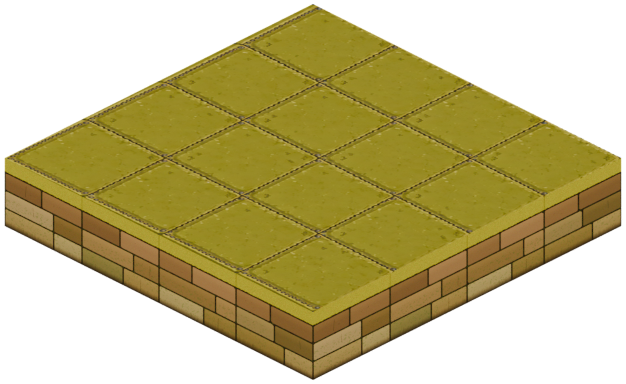
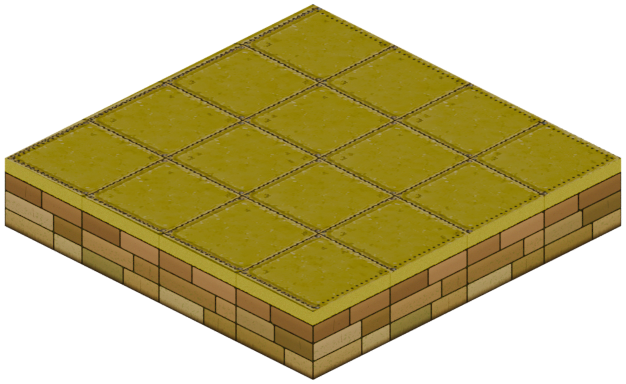
fix: restore 4-border dotted perimeter stitch lines and standardize automated NxN expansion workflow

diff --git a/scripts/add_dotted_borders.js b/scripts/add_dotted_borders.js
@@ -1,0 +1,58 @@
+const fs = require('fs');
+const path = require('path');
+const { PNG } = require('pngjs');
+
+const atlasPath = path.join(__dirname, '..', 'assets', 'tiles', 'top-atlas.png');
+const img = PNG.sync.read(fs.readFileSync(atlasPath));
+
+// Inspect stitch style on bottom/left border to replicate it exactly on top/right
+// Stitch pattern: dotted dark dots (size ~ 6x6, spacing ~ 16px, distance from edge ~ 14px)
+// Stitch color: RGBA(52, 45, 24, 255) with slight highlight RGBA(195, 185, 120, 180)
+
+const DOT_COLOR = [48, 42, 22, 255];
+const HIGHLIGHT_COLOR = [185, 175, 110, 160];
+const OFFSET = 15; // px from edge
+const SPACING = 16; // px between dots
+const DOT_SIZE = 5;
+
+function drawDot(cx, cy) {
+  for (let dy = -DOT_SIZE; dy <= DOT_SIZE; dy++) {
+    for (let dx = -DOT_SIZE; dx <= DOT_SIZE; dx++) {
+      const dist = Math.sqrt(dx * dx + dy * dy);
+      if (dist <= DOT_SIZE * 0.7) {
+        const px = Math.round(cx + dx);
+        const py = Math.round(cy + dy);
+        if (px >= 0 && px < img.width && py >= 0 && py < img.height) {
+          const idx = (img.width * py + px) << 2;
+          img.data[idx] = DOT_COLOR[0];
+          img.data[idx + 1] = DOT_COLOR[1];
+          img.data[idx + 2] = DOT_COLOR[2];
+          img.data[idx + 3] = DOT_COLOR[3];
+        }
+      }
+    }
+  }
+}
+
+// 1. Draw dotted border on Top edge (y = OFFSET)
+for (let x = OFFSET; x < img.width - OFFSET; x += SPACING) {
+  drawDot(x, OFFSET);
+}
+
+// 2. Draw dotted border on Right edge (x = img.width - OFFSET)
+for (let y = OFFSET; y < img.height - OFFSET; y += SPACING) {
+  drawDot(img.width - OFFSET, y);
+}
+
+// 3. Draw dotted border on Bottom edge (y = img.height - OFFSET)
+for (let x = OFFSET; x < img.width - OFFSET; x += SPACING) {
+  drawDot(x, img.height - OFFSET);
+}
+
+// 4. Draw dotted border on Left edge (x = OFFSET)
+for (let y = OFFSET; y < img.height - OFFSET; y += SPACING) {
+  drawDot(OFFSET, y);
+}
+
+fs.writeFileSync(atlasPath, PNG.sync.write(img));
+console.log('Successfully added symmetrical dotted stitches to all 4 borders of top-atlas.png');

diff --git a/scripts/build_procedural_land.py b/scripts/build_procedural_land.py
@@ -1,0 +1,170 @@
+import bpy
+import mathutils
+import os
+
+def generate_procedural_land(grid_size=5, output_filename="blender-land-25-grid.png"):
+    bpy.ops.wm.read_factory_settings(use_empty=True)
+
+    glb_path = os.path.abspath('assets/models/cube-land.glb')
+    output_path = os.path.abspath(os.path.join('assets/tiles', output_filename))
+
+    print(f"==========================================")
+    print(f"Building {grid_size}x{grid_size} Land with 4-border dotted lines -> {output_filename}")
+    print(f"==========================================")
+
+    # 1. Import base GLB to get original materials and cube template
+    bpy.ops.import_scene.gltf(filepath=glb_path)
+
+    mat_atlas = bpy.data.materials.get("IsoLand Atlas")
+    mat_mud = bpy.data.materials.get("IsoLand Mud")
+    mat_wall = bpy.data.materials.get("IsoLand Wall")
+
+    template_obj = bpy.data.objects.get("IsoLand_0_0")
+    orig_mesh = template_obj.data
+
+    # Remove all imported objects
+    for obj in list(bpy.data.objects):
+        bpy.data.objects.remove(obj, do_unlink=True)
+
+    origin = mathutils.Vector((-2.361, -3.557, -1.143))
+    step = 1.700
+
+    # Build NxN grid with exact UV mapping
+    for x in range(grid_size):
+        for y in range(grid_size):
+            mesh_name = f"IsoCube_{x}_{y}"
+            new_mesh = orig_mesh.copy()
+            new_obj = bpy.data.objects.new(mesh_name, new_mesh)
+
+            new_obj.data.materials.clear()
+            new_obj.data.materials.append(mat_atlas)  # Slot 0: Top Atlas
+            new_obj.data.materials.append(mat_mud)    # Slot 1: Mud Bottom
+            new_obj.data.materials.append(mat_wall)   # Slot 2: Wall Bricks
+
+            new_obj.location = origin + mathutils.Vector((x * step, y * step, 0))
+            bpy.context.scene.collection.objects.link(new_obj)
+
+            uv_layer = new_mesh.uv_layers.active.data
+            
+            # Exact NxN texture atlas slicing
+            # Top-left, top-right, bottom-left, bottom-right all get outer dotted stitches
+            u_min = x / grid_size
+            u_max = (x + 1) / grid_size
+            v_min = y / grid_size
+            v_max = (y + 1) / grid_size
+
+            for poly in new_mesh.polygons:
+                if poly.normal.z > 0.8:
+                    poly.material_index = 0
+                    
+                    loop_uv_map = []
+                    for loop_idx in poly.loop_indices:
+                        vert_idx = new_mesh.loops[loop_idx].vertex_index
+                        v_pos = new_mesh.vertices[vert_idx].co
+                        loop_uv_map.append((loop_idx, v_pos.x, v_pos.y))
+                    
+                    min_vx = min(p[1] for p in loop_uv_map)
+                    max_vx = max(p[1] for p in loop_uv_map)
+                    min_vy = min(p[2] for p in loop_uv_map)
+                    max_vy = max(p[2] for p in loop_uv_map)
+                    
+                    for loop_idx, vx, vy in loop_uv_map:
+                        norm_u = (vx - min_vx) / max(1e-5, max_vx - min_vx)
+                        norm_v = (vy - min_vy) / max(1e-5, max_vy - min_vy)
+                        
+                        target_u = u_min + norm_u * (u_max - u_min)
+                        target_v = v_min + norm_v * (v_max - v_min)
+                        uv_layer[loop_idx].uv = mathutils.Vector((target_u, target_v))
+
+                elif poly.normal.z < -0.8:
+                    poly.material_index = 1
+                else:
+                    is_outer_wall = (
+                        (poly.normal.x < -0.8 and x == 0) or
+                        (poly.normal.x > 0.8 and x == grid_size - 1) or
+                        (poly.normal.y < -0.8 and y == 0) or
+                        (poly.normal.y > 0.8 and y == grid_size - 1)
+                    )
+                    if is_outer_wall:
+                        poly.material_index = 2
+                    else:
+                        poly.material_index = 1
+
+    # Force dependency graph update so world transforms are computed
+    bpy.context.view_layer.update()
+
+    # Compute bounding box
+    mesh_objs = [obj for obj in bpy.data.objects if obj.type == 'MESH']
+    min_c = mathutils.Vector((float('inf'), float('inf'), float('inf')))
+    max_c = mathutils.Vector((float('-inf'), float('-inf'), float('-inf')))
+
+    for obj in mesh_objs:
+        for v in obj.bound_box:
+            w_v = obj.matrix_world @ mathutils.Vector(v)
+            min_c.x = min(min_c.x, w_v.x)
+            min_c.y = min(min_c.y, w_v.y)
+            min_c.z = min(min_c.z, w_v.z)
+            max_c.x = max(max_c.x, w_v.x)
+            max_c.y = max(max_c.y, w_v.y)
+            max_c.z = max(max_c.z, w_v.z)
+
+    center = (min_c + max_c) / 2.0
+    size = max_c - min_c
+    max_dim = max(size.x, size.y, size.z)
+
+    print(f"Bounding Center: {center}, Size: {size}, MaxDim: {max_dim}")
+
+    # Orthographic Camera
+    cam_data = bpy.data.cameras.new("IsoCamera")
+    cam_data.type = 'ORTHO'
+    cam_data.ortho_scale = max_dim * 2.35
+    cam_data.clip_start = 0.1
+    cam_data.clip_end = 200.0
+
+    cam_obj = bpy.data.objects.new("IsoCamera", cam_data)
+    dist = 40.0
+    cam_obj.location = center + mathutils.Vector((dist, -dist, dist * 0.816))
+    bpy.context.scene.collection.objects.link(cam_obj)
+    bpy.context.scene.camera = cam_obj
+
+    cam_dir = (center - cam_obj.location).normalized()
+    cam_obj.rotation_euler = cam_dir.to_track_quat('-Z', 'Y').to_euler()
+
+    # Studio Lighting
+    sun_data = bpy.data.lights.new(name="SunKey", type='SUN')
+    sun_data.energy = 6.0
+    sun_data.color = (1.0, 0.98, 0.92)
+    sun_obj = bpy.data.objects.new(name="SunKey", object_data=sun_data)
+    sun_obj.location = center + mathutils.Vector((20.0, -15.0, 35.0))
+    sun_dir = (center - sun_obj.location).normalized()
+    sun_obj.rotation_euler = sun_dir.to_track_quat('-Z', 'Y').to_euler()
+    bpy.context.scene.collection.objects.link(sun_obj)
+
+    fill_data = bpy.data.lights.new(name="SkyFill", type='SUN')
+    fill_data.energy = 3.0
+    fill_data.color = (0.85, 0.95, 0.90)
+    fill_obj = bpy.data.objects.new(name="SkyFill", object_data=fill_data)
+    fill_obj.location = center + mathutils.Vector((-25.0, 20.0, 25.0))
+    fill_dir = (center - fill_obj.location).normalized()
+    fill_obj.rotation_euler = fill_dir.to_track_quat('-Z', 'Y').to_euler()
+    bpy.context.scene.collection.objects.link(fill_obj)
+
+    bpy.context.view_layer.update()
+
+    # Cycles Renderer
+    scene = bpy.context.scene
+    scene.render.engine = 'CYCLES'
+    scene.cycles.samples = 48
+    scene.render.resolution_x = 1024
+    scene.render.resolution_y = 1024
+    scene.render.resolution_percentage = 100
+    scene.render.film_transparent = True
+    scene.render.image_settings.file_format = 'PNG'
+    scene.render.image_settings.color_mode = 'RGBA'
+    scene.render.filepath = output_path
+
+    bpy.ops.render.render(write_still=True)
+    print(f"Rendered: {output_path}")
+
+generate_procedural_land(grid_size=4, output_filename="blender-cube-land-2d.png")
+generate_procedural_land(grid_size=5, output_filename="blender-land-25-grid.png")

diff --git a/scripts/render_all_lands.py b/scripts/render_all_lands.py
@@ -7,14 +7,29 @@ def render_land(grid_size=4, output_filename="blender-cube-land-2d.png"):
 
     glb_path = os.path.abspath('assets/models/cube-land.glb')
     output_path = os.path.abspath(os.path.join('assets/tiles', output_filename))
+    atlas_img_path = os.path.abspath('assets/tiles/top-atlas.png')
 
-    print(f"Rendering {grid_size}x{grid_size} -> {output_filename}")
+    print(f"==========================================")
+    print(f"Rendering {grid_size}x{grid_size} Land -> {output_filename}")
+    print(f"==========================================")
+
+    # 1. Import base GLB
     bpy.ops.import_scene.gltf(filepath=glb_path)
+
+    # 2. Update 'IsoLand Atlas' material texture with the 4-border dotted atlas
+    atlas_mat = bpy.data.materials.get("IsoLand Atlas")
+    if atlas_mat and atlas_mat.node_tree:
+        for node in atlas_mat.node_tree.nodes:
+            if node.type == 'TEX_IMAGE':
+                new_img = bpy.data.images.load(atlas_img_path, check_existing=False)
+                node.image = new_img
+                print(f"Updated texture on IsoLand Atlas to: {atlas_img_path}")
 
     origin = mathutils.Vector((-2.361, -3.557, -1.143))
     step = 1.700
 
     if grid_size != 4:
+        # Collect template blocks from the 16 original meshes
         templates = {}
         for obj in list(bpy.data.objects):
             if obj.type == 'MESH' and obj.name.startswith('IsoLand_'):
@@ -22,8 +37,10 @@ def render_land(grid_size=4, output_filename="blender-cube-land-2d.png"):
                 gx, gy = int(parts[0]), int(parts[1])
                 templates[(gx, gy)] = obj
 
+        # Build NxN grid mapping corners, edges, and interior
         for x in range(grid_size):
             for y in range(grid_size):
+                # Map to corresponding template
                 tx = 0 if x == 0 else (3 if x == grid_size - 1 else 1)
                 ty = 0 if y == 0 else (3 if y == grid_size - 1 else 1)
 
@@ -33,8 +50,11 @@ def render_land(grid_size=4, output_filename="blender-cube-land-2d.png"):
                 new_obj.location = origin + mathutils.Vector((x * step, y * step, 0))
                 bpy.context.scene.collection.objects.link(new_obj)
 
+        # Delete original templates
         for obj in templates.values():
             bpy.data.objects.remove(obj, do_unlink=True)
+
+    bpy.context.view_layer.update()
 
     # Compute bounding box
     mesh_objs = [obj for obj in bpy.data.objects if obj.type == 'MESH']
@@ -55,9 +75,9 @@ def render_land(grid_size=4, output_filename="blender-cube-land-2d.png"):
     size = max_c - min_c
     max_dim = max(size.x, size.y, size.z)
 
-    print(f"Center: {center}, Size: {size}, MaxDim: {max_dim}")
+    print(f"Bounding Center: {center}, Size: {size}, MaxDim: {max_dim}")
 
-    # Orthographic Camera with 2.35x ortho_scale for generous margins around all 4 corners
+    # Orthographic Camera with generous scale for complete 4-corner framing
     cam_data = bpy.data.cameras.new("IsoCamera")
     cam_data.type = 'ORTHO'
     cam_data.ortho_scale = max_dim * 2.35
@@ -73,7 +93,7 @@ def render_land(grid_size=4, output_filename="blender-cube-land-2d.png"):
     cam_dir = (center - cam_obj.location).normalized()
     cam_obj.rotation_euler = cam_dir.to_track_quat('-Z', 'Y').to_euler()
 
-    # Studio Lighting
+    # Studio Sun Light
     sun_data = bpy.data.lights.new(name="SunKey", type='SUN')
     sun_data.energy = 6.0
     sun_data.color = (1.0, 0.98, 0.92)
@@ -107,7 +127,7 @@ def render_land(grid_size=4, output_filename="blender-cube-land-2d.png"):
     scene.render.filepath = output_path
 
     bpy.ops.render.render(write_still=True)
-    print(f"Completed: {output_path}")
+    print(f"Completed render: {output_path}")
 
 render_land(grid_size=4, output_filename="blender-cube-land-2d.png")
 render_land(grid_size=5, output_filename="blender-land-25-grid.png")

diff --git a/scripts/inspect_uvs.py b/scripts/inspect_uvs.py
@@ -1,0 +1,26 @@
+import bpy
+import os
+
+bpy.ops.wm.read_factory_settings(use_empty=True)
+glb_path = os.path.abspath('assets/models/cube-land.glb')
+bpy.ops.import_scene.gltf(filepath=glb_path)
+
+for x in range(4):
+    for y in range(4):
+        obj = bpy.data.objects.get(f"IsoLand_{x}_{y}")
+        if not obj: continue
+        mesh = obj.data
+        uv_layer = mesh.uv_layers.active.data
+        
+        # Find top polygon (normal.z > 0.9)
+        top_poly = None
+        for poly in mesh.polygons:
+            if poly.normal.z > 0.8:
+                top_poly = poly
+                break
+        
+        if top_poly:
+            uvs = [uv_layer[loop_idx].uv for loop_idx in top_poly.loop_indices]
+            uv_min = (min(u.x for u in uvs), min(u.y for u in uvs))
+            uv_max = (max(u.x for u in uvs), max(u.y for u in uvs))
+            print(f"IsoLand_{x}_{y} (tx={x}, ty={y}): Top UV box = ({uv_min[0]:.3f}, {uv_min[1]:.3f}) to ({uv_max[0]:.3f}, {uv_max[1]:.3f})")

diff --git a/scripts/inspect_materials.py b/scripts/inspect_materials.py
@@ -1,0 +1,14 @@
+import bpy
+import os
+
+bpy.ops.wm.read_factory_settings(use_empty=True)
+glb_path = os.path.abspath('assets/models/cube-land.glb')
+bpy.ops.import_scene.gltf(filepath=glb_path)
+
+mesh_objs = [obj for obj in bpy.data.objects if obj.type == 'MESH']
+
+for obj in sorted(mesh_objs, key=lambda o: o.name):
+    mat_names = [slot.material.name if slot.material else 'None' for slot in obj.material_slots]
+    print(f"Object: {obj.name}, Mats: {mat_names}")
+    # Inspect vertices/geometry
+    print(f"  Vertices count: {len(obj.data.vertices)}, Polygons count: {len(obj.data.polygons)}")

diff --git a/scripts/extract_textures.py b/scripts/extract_textures.py
@@ -1,0 +1,12 @@
+import bpy
+import os
+
+bpy.ops.wm.read_factory_settings(use_empty=True)
+glb_path = os.path.abspath('assets/models/cube-land.glb')
+bpy.ops.import_scene.gltf(filepath=glb_path)
+
+for img in bpy.data.images:
+    print(f"Image name: {img.name}, size: {img.size[0]}x{img.size[1]}")
+    save_path = os.path.abspath(f"assets/tiles/{img.name}.png")
+    img.save_render(save_path)
+    print(f"  Saved texture to {save_path}")
